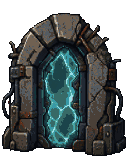
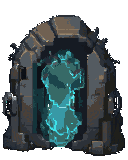
feat: M5 잔여 발주 3종을 채택·마감한다 — 재발주 범위 종료 (3~5차 슬라이스)
- 3차: 소품 4종(모닥불 드럼·폭발 배럴·포탈·은닉처)을 arcade-props-neon-v1 C04로
  §1-d 플랫 클러스터 재마감 (실루엣·역할색 보존, despeckle 추가)
- 4차: 하행 계단 특수 소스를 environment-neon-stairs-v1 C04로 교체 —
  마지막 병원판 환경 소스 소거 (피트 틸 광 후보는 Hole 신호 충돌로 기각)
- 5차: 메인 메뉴 배경을 ui-menu-backdrop-v2 C02 네온 스카이라인으로 교체 —
  마지막 구테마 유저 노출 자산 소거, M5 재발주 범위 닫힘
- 소스 보드·prompt.md·판정 캡처 동반, ROADMAP/STATUS 슬라이스 기록 갱신
- 에디터 시각 확인은 임포트 완료 후 별도 세션에서 (PNG 교체라 컴파일 무관)

diff --git a/Tools/ArtPipeline/process_postapoc_props_v2.py b/Tools/ArtPipeline/process_postapoc_props_v2.py
@@ -1,16 +1,21 @@
 #!/usr/bin/env python3
-"""Build the polished Collapsed Transit prop slice."""
+"""Build the polished prop slice (v0.3.3 — arcade tower restyle).
+
+2026-07-30: 소스를 `arcade-props-source-v1`(arcade-props-neon-v1 레시피, C04 채택)로
+교체 — 구판 페인터리 소품 4종을 §1-d 플랫 클러스터 문법으로 재마감한다. 셀 배치·
+출력 계약은 collapsed-transit 구판과 동일해 SPECS는 그대로다.
+"""
 
 from dataclasses import dataclass
 from pathlib import Path
 
 from PIL import Image
 
-from torchstone_palette import lock_to_palette
+from torchstone_palette import despeckle, lock_to_palette
 
 
 ROOT = Path(__file__).resolve().parents[2]
-SOURCE = ROOT / "docs/art-direction/project-c-collapsed-transit-props-source-v2.png"
+SOURCE = ROOT / "docs/art-direction/project-c-arcade-props-source-v1.png"
 OUTPUT = ROOT / "Assets/_Project/Art/Runtime"
 CELL_SIZE = 627
 ALPHA_CUTOFF = 80
@@ -80,7 +85,8 @@ def reduce_colors(image: Image.Image) -> Image.Image:
     rgb.paste(image, mask=alpha)
     reduced = lock_to_palette(rgb).convert("RGBA")  # 공용 .gpl 팔레트 잠금
     reduced.putalpha(alpha)
-    return reduced
+    # 잠금 직후 despeckle — 렌더링 문법 계약 §1-d(plan v2): 고립 1px 노이즈 금지.
+    return despeckle(reduced)
 
 
 def build_prop(source: Image.Image, spec: PropSpec) -> Image.Image:

diff --git a/Tools/ArtPipeline/process_postapoc_environment_v2.py b/Tools/ArtPipeline/process_postapoc_environment_v2.py
@@ -21,9 +21,11 @@ SOURCE = (
     ROOT
     / "docs/art-direction/project-c-collapsed-transit-environment-source-v4.png"
 )
+# 2026-07-30: 하행 계단 특수 소스를 environment-neon-stairs-v1(C04 채택)로 교체 —
+# v3 채택 라운드에서 빠졌던 마지막 병원판 소스다. 상행 셀은 스타일 참조용이라 소비하지 않는다.
 STAIRS_SOURCE = (
     ROOT
-    / "docs/art-direction/project-c-collapsed-transit-stairs-source-v2.png"
+    / "docs/art-direction/project-c-arcade-stairs-source-v1.png"
 )
 OUTPUT = ROOT / "Assets/_Project/Art/Environment"
 CELL_SIZE = (512, 512)

diff --git a/Tools/ArtPipeline/process_ui_backdrops_v1.py b/Tools/ArtPipeline/process_ui_backdrops_v1.py
@@ -9,7 +9,9 @@ from torchstone_palette import lock_to_palette
 
 
 ROOT = Path(__file__).resolve().parents[2]
-SOURCE = ROOT / "docs/art-direction/project-c-main-menu-backdrop-source-v1.png"
+# 2026-07-30: v2 — 구 병원 복도 소스를 ui-menu-backdrop-v2 레시피(C02 채택)의
+# 네온 스카이라인으로 교체(마지막 구테마 유저 노출 자산 소거, M5 잔여 마감).
+SOURCE = ROOT / "docs/art-direction/project-c-main-menu-backdrop-source-v2.png"
 OUTPUT = ROOT / "Assets/_Project/Art/Runtime/ui-main-menu-backdrop.png"
 WORKING_SIZE = (480, 270)
 RUNTIME_SIZE = (960, 540)

diff --git a/docs/STATUS.md b/docs/STATUS.md
@@ -229,6 +229,25 @@
       웜 시프트 → tile-* 램프 유도, 바닥 오버레이 명도 ×0.92)을 넣어 재마감했다 —
       스크린·간판 악센트와 청보라 암부는 건드리지 않는다(회귀 테스트 포함).
       캡처: `docs/captures/arcade-dressing-live-v2.png` (v1은 정합 전 비교본).
+  - **M5 3차 슬라이스 반영됨(2026-07-30)** — 기존 소품 4종(모닥불 드럼·폭발 배럴·
+    포탈·은닉처)을 `arcade-props-neon-v1` 레시피(C04 채택, 라이더 합성 게이트)로
+    §1-d 플랫 클러스터 문법으로 재마감했다. 실루엣·역할색(모닥불 토치 골드 = 허브 웜
+    디오라마 조항, 포탈 틸, 배럴 hazard+해골 데칼) 보존, `process_postapoc_props_v2.py`
+    소스 교체 + despeckle 추가로 `Art/Runtime/prop-*.png` 4종 교체. 생성 배경이
+    불투명하게 나와 승격 시 플러드 알파 전처리를 거쳤다(소스 prompt.md 참조).
+    캡처: 던전 `docs/captures/arcade-dressing-live-v3.png` ·
+    허브 `docs/captures/arcade-props-hub-live-v1.png`.
+  - **M5 4차 슬라이스 반영됨(2026-07-30)** — 하행 계단 특수 소스를
+    `environment-neon-stairs-v1`(C04 채택)로 교체해 `env-stairs-down-rising-*` 2종
+    재마감 — 마지막 병원판 환경 소스 소거. 판정은 최종 크기 드라이런 비교
+    (`docs/captures/arcade-stairs-conform-v1.png`)로 했고, 피트 내부 틸 광 후보는
+    Hole=틸 신호 예약과 충돌해 기각했다(안전 계단=앰버 유지, §1-c).
+    잔여는 메인 메뉴 배경 재발주뿐이다(SSOT: ROADMAP M5 잔여 범위).
+  - **M5 5차 슬라이스 반영됨(2026-07-30)** — 메인 메뉴 배경을 `ui-menu-backdrop-v2`
+    레시피(C02 채택)의 네온 스카이라인 소스
+    (`project-c-main-menu-backdrop-source-v2.png`)로 교체하고
+    `process_ui_backdrops_v1.py`로 재마감(`ui-main-menu-backdrop.png`, 960×540 규격
+    불변). **마지막 구테마 유저 노출 자산이 소거돼 M5 재발주 범위가 닫혔다.**
   이전 확정(유지): 테마를 **포스트 아포칼립스/이상 미궁**으로 전환(GDD §10 v0.3).
   - **밝기 완화 패스 적용됨(v0.3.3)** — 탐색 잔상·심층 앰비언트·높이차 틴트·수직 미리보기의
     어둡기 하한을 일괄 상향해 "판독 가능한 어둠"으로 옮겼다(FOV 3상태 구분은 유지). 값은

diff --git a/docs/ROADMAP.md b/docs/ROADMAP.md
@@ -43,9 +43,20 @@
     `environment-neon-dressing-v1` 레시피(C03 채택, §1-d 라이더 합성 게이트)로 아케이드
     어휘(자판기·꺼진 홀로 패널·상태 패널 + 그레이트/전단지 균열/서비스 패널 바닥)로 교체 —
     슬롯명·파일명 계약은 구판 유지. 캡처 `docs/captures/arcade-dressing-live-v1.png`.
-  - [ ] **잔여 범위**: 계단 특수 소스(stairs-source-v2) · 소품 재발주 · **메인 메뉴 배경 재발주**
-    (`ui-main-menu-backdrop.png` — 현재 소스가 구 병원 복도
-    `project-c-main-menu-backdrop-source-v1.prompt.md`라 잔여 목록에서 빠져 있던 구판 자산).
+  - [x] **3차 슬라이스(2026-07-30)**: 기존 소품 4종(모닥불·폭발 배럴·포탈·은닉처)을
+    `arcade-props-neon-v1` 레시피(C04 채택)로 §1-d 플랫 클러스터 문법 재마감 — 실루엣·
+    역할색(토치 골드/틸/hazard) 보존, `Art/Runtime/prop-*.png` 교체. 같은 날 드레싱
+    정합 패스(벽 웜 리매핑·바닥 명도 하향)도 프로세서에 반영. 캡처
+    `docs/captures/arcade-dressing-live-v3.png` · `arcade-props-hub-live-v1.png`.
+  - [x] **4차 슬라이스(2026-07-30)**: 하행 계단 특수 소스를 `environment-neon-stairs-v1`
+    레시피(C04 채택 — C01은 피트 틸 광이 Hole 신호와 충돌해 기각)로 교체,
+    `env-stairs-down-rising-*` 2종 재마감. 마지막 병원판 환경 소스가 소거됐다.
+    판정 근거 `docs/captures/arcade-stairs-conform-v1.png`,
+    출처 `project-c-arcade-stairs-source-v1.prompt.md`.
+  - [x] **5차 슬라이스(2026-07-30)**: 메인 메뉴 배경을 `ui-menu-backdrop-v2` 레시피
+    (C02 채택, job ART-20260730-070942-2c2580)의 네온 스카이라인으로 교체 —
+    구 병원 복도 소스(`project-c-main-menu-backdrop-source-v1`)를 대체해
+    **마지막 구테마 유저 노출 자산이 소거됐다. M5 재발주 범위 종료.**
 - [ ] **아케이드 소품 추가** (v0.3.3 개정 — 구 "병원 소품" 발주는 집행 전 폐기) — 자판기·네온 간판·
   홀로 패널·셔터 내린 점포. 확정된 환경 세트(콘크리트·비상등·방폭문·서비스 계단)는 그대로 쓰고
   **지상층부터 덧붙인다**(리스킨 표 §5 주석). 기존 `hospitalFloor*`/`hospitalWall*` 9슬롯은

diff --git a/docs/art-direction/project-c-arcade-props-source-v1.prompt.md b/docs/art-direction/project-c-arcade-props-source-v1.prompt.md
@@ -1,0 +1,21 @@
+# 아케이드 소품 소스 시트 v1 — 구판 페인터리 4종 §1-d 재마감
+
+- **채택**: 2026-07-30, art_runner job `ART-20260730-071201-e2bd3f` 후보 **C04**.
+  레시피 `arcade-props-neon-v1` — 소스는 구판 소품 보드
+  (`project-c-collapsed-transit-props-source-v2.png`, 2×2 627px 셀), denoise 0.5로
+  실루엣·셀 배치를 보존한 채 **문법만 교체**(페인터리 잔점 → §1-d 플랫 클러스터).
+- **동기**: 드레싱 정합 패스 후 실화면에서 남은 세대 불일치가 소품 4종
+  (모닥불 드럼·연료통·이상 게이트·보관함)이었다 — 구판 고채도 페인터리(S0.42~0.58)가
+  플랫 클러스터 환경·치비 라이더와 갈라져 보였다.
+- **판정**: 소품 4종 + 바닥 3×3 + 라이더 합성 게이트(4후보). C01~C03은 보관함이
+  나무 보물상자(판타지 어휘)로 미끄러졌고, **C04만 금속 크레이트** 유지 + 클러스터가
+  가장 청키해 채택. 배럴의 해골 데칼·hazard 스트랩은 폭발물 판독에 유리해 수용.
+  역할색 보존 확인: 모닥불 토치 골드(허브 웜 디오라마 조항)·포탈 틸·배럴 hazard 소량.
+- **전처리**: 생성 배경이 마젠타 대신 불투명 암색으로 나와(알려진 ComfyUI 버릇)
+  승격 시 테두리 연결 플러드 알파(tol 14)로 배경을 제거하고 1248→1254(SDXL 8배수
+  내림 복원, 균일 ±0.5%)로 리사이즈해 저장했다.
+- **마감**: `Tools/ArtPipeline/process_postapoc_props_v2.py` — SOURCE를 이 파일로
+  교체하고 팔레트 잠금 직후 §1-d despeckle 패스 추가. 셀 배치·출력 계약(SPECS)은
+  구판과 동일해 `Art/Runtime/prop-*.png` 4종이 그대로 교체된다.
+- **실화면**: 던전 `docs/captures/arcade-dressing-live-v3.png` ·
+  허브 `docs/captures/arcade-props-hub-live-v1.png`.

diff --git a/docs/art-direction/project-c-arcade-stairs-source-v1.prompt.md b/docs/art-direction/project-c-arcade-stairs-source-v1.prompt.md
@@ -1,0 +1,17 @@
+# 아케이드 계단 소스 시트 v1 — 하행 계단 특수 소스 재발주 (M5 잔여)
+
+- **채택**: 2026-07-30, art_runner job `ART-20260730-070942-0d5ac5` 후보 **C04**.
+  레시피 `environment-neon-stairs-v1`(별도 세션이 커밋 2bf8bfb로 신설·큐 투입,
+  이 세션이 후보 판정·채택) — 구판 `...collapsed-transit-stairs-source-v2.png`를
+  소스로 denoise 0.45 스타일 트랜스퍼. v3 환경 채택 라운드에서 빠졌던 마지막
+  병원판 소스가 이것으로 소거됐다.
+- **판정**: 프로세서가 소비하는 좌상단 하행 셀을 최종 크기(128×80)로 드라이런
+  conform해 비교(`docs/captures/arcade-stairs-conform-v1.png` — C03|C04|구판 순).
+  C01은 피트 내부 틸 광(Hole=틸 신호 예약과 충돌), C02는 하행 단이 어둠에 묻혀
+  판독 불가로 기각. C04는 하행 트레드 분리가 가장 명확하고 안전 계단=앰버 신호
+  (§1-c)가 커브·단에 실려 채택. C03은 트레드가 어두워 차점.
+- **전처리**: 생성 배경 불투명(알려진 버릇) → 승격 시 테두리 연결 플러드 알파
+  (tol 14) + 1248→1254 리사이즈(SDXL 8배수 내림 복원).
+- **마감**: `Tools/ArtPipeline/process_postapoc_environment_v2.py`의 `STAIRS_SOURCE`를
+  이 파일로 갱신 후 재실행 — `env-stairs-down-rising-{right,left}.png` 2종만 변경되고
+  나머지 14종은 바이트 동일(멱등 확인). 상행 셀은 스타일 참조용으로 소비하지 않는다.
